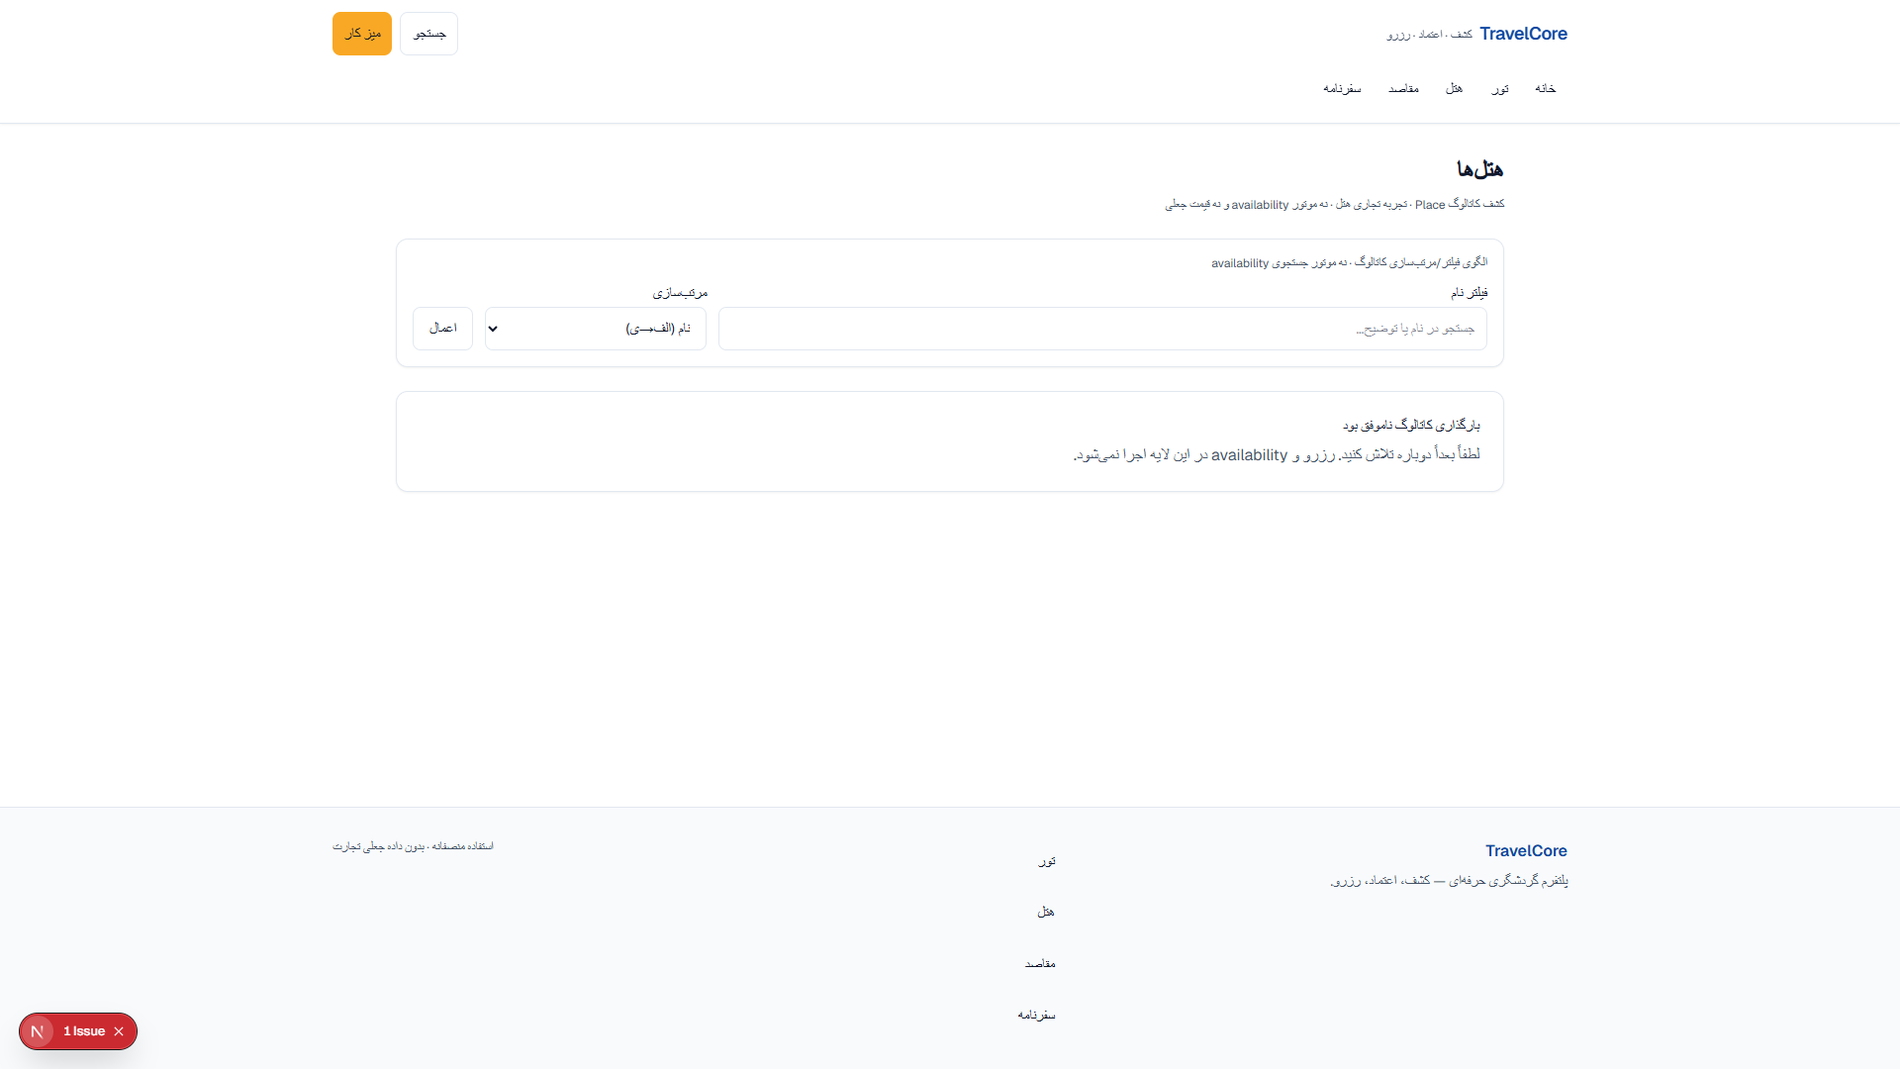
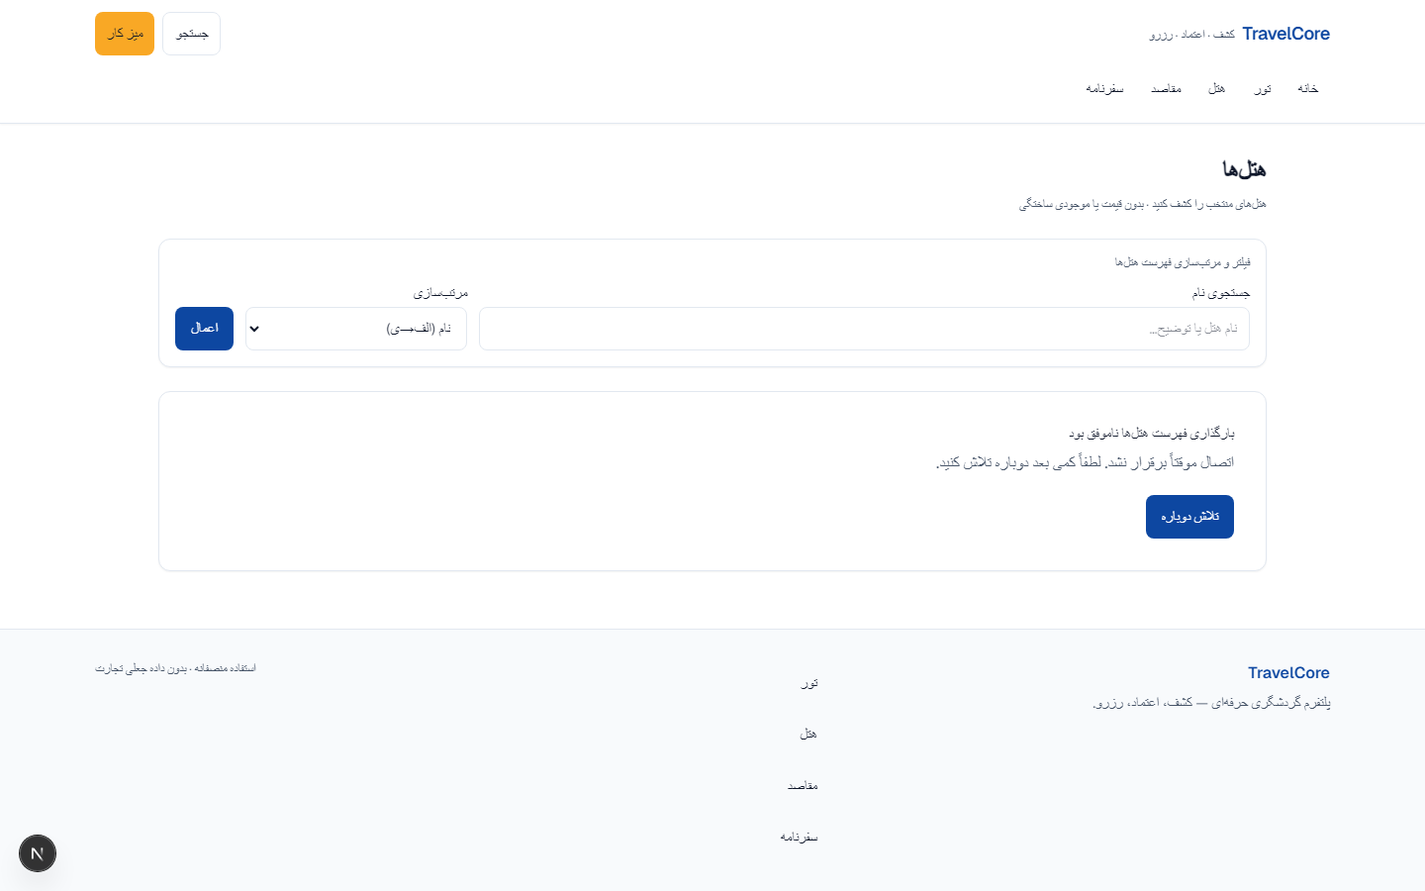
feat(ui): polish P30-T006 hotel commerce after visual review

diff --git a/src/frontend/web/src/features/hotel-discovery/hotel-discovery-view.tsx b/src/frontend/web/src/features/hotel-discovery/hotel-discovery-view.tsx
@@ -29,35 +29,36 @@ export function HotelDiscoveryView({
   const copy =
     locale === "fa"
       ? {
-          blurb:
-            "کشف کاتالوگ Place · تجربه تجاری هتل · نه موتور availability و نه قیمت جعلی",
+          blurb: "هتلهای منتخب را کشف کنید · بدون قیمت یا موجودی ساختگی",
           emptyTitle: "هتلی برای نمایش نیست",
           emptyBody:
-            "برای این locale هتل فعالی با slug نیست، یا فیلتر نتیجهای ندارد. قیمت/موجودی جعلی نشان نمیدهیم.",
-          errorTitle: "بارگذاری کاتالوگ ناموفق بود",
-          errorBody: "لطفاً بعداً دوباره تلاش کنید. رزرو و availability در این لایه اجرا نمیشود.",
+            "فعلاً هتلی با این فیلتر پیدا نشد. بهمحض انتشار کاتالوگ، اینجا نمایش داده میشود.",
+          errorTitle: "بارگذاری فهرست هتلها ناموفق بود",
+          errorBody:
+            "اتصال موقتاً برقرار نشد. لطفاً کمی بعد دوباره تلاش کنید.",
+          retry: "تلاش دوباره",
           count: (n: number) => `${n} هتل`,
         }
       : locale === "ar"
         ? {
-            blurb:
-              "اكتشاف كتالوج Place · تجربة فنادق تجارية · دون محرك توفر أو أسعار وهمية",
+            blurb: "اكتشف الفنادق المختارة · دون أسعار أو توفر وهمي",
             emptyTitle: "لا فنادق للعرض",
             emptyBody:
-              "لا فنادق نشطة لهذا الإعداد المحلي، أو لا نتائج للتصفية. لا نعرض أسعاراً/توفراً وهمياً.",
-            errorTitle: "تعذر تحميل الكتالوج",
-            errorBody: "حاول لاحقاً. الحجز والتوفر ليسا في هذه الطبقة.",
+              "لا نتائج لهذا التصفية حالياً. ستظهر الفنادق عند توفر الكتالوج.",
+            errorTitle: "تعذر تحميل قائمة الفنادق",
+            errorBody: "الاتصال غير متاح مؤقتاً. حاول مرة أخرى بعد قليل.",
+            retry: "إعادة المحاولة",
             count: (n: number) => `${n} فندق`,
           }
         : {
-            blurb:
-              "Place catalog discovery · hotel commerce experience · not availability search · no invented prices",
+            blurb: "Discover selected hotels · no invented prices or availability",
             emptyTitle: "No hotels to show",
             emptyBody:
-              "No active hotels with slug for this locale, or the filter matched nothing. We do not invent prices or availability.",
-            errorTitle: "Catalog failed to load",
+              "Nothing matched this filter yet. Hotels appear here when the catalog is published.",
+            errorTitle: "Couldn’t load hotels",
             errorBody:
-              "Please try again later. Booking and availability are not handled on this layer.",
+              "The connection failed temporarily. Please try again in a moment.",
+            retry: "Try again",
             count: (n: number) => `${n} hotels`,
           };
 
@@ -77,7 +78,7 @@ export function HotelDiscoveryView({
           {loadError ? (
             <div
               role="alert"
-              className="rounded-xl border border-border bg-surface p-6 shadow-sm"
+              className="rounded-xl border border-border bg-surface p-6 shadow-sm sm:p-8"
             >
               <Text as="h2" role="label">
                 {copy.errorTitle}
@@ -85,6 +86,12 @@ export function HotelDiscoveryView({
               <Text role="muted" className="mt-2">
                 {copy.errorBody}
               </Text>
+              <a
+                href={`/${locale}/hotels`}
+                className="mt-5 inline-flex min-h-touch items-center justify-center rounded-md bg-primary px-4 text-sm font-medium text-primary-foreground hover:opacity-95"
+              >
+                {copy.retry}
+              </a>
             </div>
           ) : filtered.length === 0 ? (
             <div className="rounded-xl border border-dashed border-border bg-surface/60 p-8 text-center">
@@ -98,7 +105,7 @@ export function HotelDiscoveryView({
                 {[0, 1, 2].map((i) => (
                   <div
                     key={i}
-                    className="aspect-[4/3] rounded-xl border border-border bg-muted/40"
+                    className="aspect-[4/3] rounded-xl bg-gradient-to-br from-primary/25 via-muted to-accent/30"
                     aria-hidden
                   />
                 ))}

diff --git a/src/frontend/web/src/features/hotel-detail/hotel-detail-view.tsx b/src/frontend/web/src/features/hotel-detail/hotel-detail-view.tsx
@@ -34,13 +34,13 @@ export function HotelDetailView({
           destination: "مقصد",
           reviews: "نظرات و داستانها",
           reviewsEmpty:
-            "بخش نظرات آماده است. تا UGC واقعی، امتیاز یا نظر جعلی نشان داده نمیشود.",
+            "هنوز نظری ثبت نشده است. امتیاز یا نظر ساختگی نشان داده نمیشود.",
           similar: "هتلهای مشابه",
-          similarEmpty: "هتل مشابه دیگری در کاتالوگ این locale نیست.",
-          cta: "ادامه به رزرو (ورود آینده)",
-          ctaNote: "CTA نمایشی برای مسیر رزرو آینده · نه پرداخت و نه موجودی زنده",
+          similarEmpty: "فعلاً هتل مشابه دیگری در فهرست نیست.",
+          cta: "ادامه به رزرو",
+          ctaNote: "ورود به مسیر رزرو · موجودی و پرداخت در مرحله بعد",
           stars: "ستاره",
-          noGallery: "گالری رسانه هنوز برای این هتل منتشر نشده است.",
+          noGallery: "گالری تصاویر هنوز برای این هتل منتشر نشده است.",
         }
       : locale === "ar"
         ? {
@@ -51,13 +51,13 @@ export function HotelDetailView({
             destination: "الوجهة",
             reviews: "المراجعات والقصص",
             reviewsEmpty:
-              "قسم المراجعات جاهز. لا نعرض تقييمات أو تعليقات وهمية.",
+              "لا مراجعات بعد. لا نعرض تقييمات أو تعليقات وهمية.",
             similar: "فنادق مشابهة",
-            similarEmpty: "لا فنادق مشابهة في هذا الكتالوج.",
-            cta: "متابعة الحجز (دخول مستقبلي)",
-            ctaNote: "زر عرضي لمسار الحجز المستقبلي · ليس دفعاً أو توفراً حياً",
+            similarEmpty: "لا فنادق مشابهة في القائمة حالياً.",
+            cta: "متابعة الحجز",
+            ctaNote: "الدخول إلى مسار الحجز · التوفر والدفع لاحقاً",
             stars: "نجوم",
-            noGallery: "معرض الوسائط غير منشور بعد لهذا الفندق.",
+            noGallery: "معرض الصور غير منشور بعد لهذا الفندق.",
           }
         : {
             summary: "Hotel summary",
@@ -67,14 +67,13 @@ export function HotelDetailView({
             destination: "Destination",
             reviews: "Reviews & stories",
             reviewsEmpty:
-              "Reviews section is ready. We do not invent ratings or fake reviews.",
+              "No reviews yet. We do not invent ratings or fake comments.",
             similar: "Similar hotels",
-            similarEmpty: "No other hotels in this locale catalog yet.",
-            cta: "Continue to booking (future entry)",
-            ctaNote:
-              "Presentation CTA for future booking entry · not payment or live availability",
+            similarEmpty: "No other hotels in this list yet.",
+            cta: "Continue to booking",
+            ctaNote: "Enter the booking path · availability and payment come later",
             stars: "stars",
-            noGallery: "Media gallery is not published for this hotel yet.",
+            noGallery: "Photo gallery is not published for this hotel yet.",
           };
 
   const galleryItems =
@@ -267,7 +266,7 @@ export function HotelDetailView({
           <Text role="caption">{copy.ctaNote}</Text>
           <Link
             href={bookHref}
-            className="mt-2 inline-flex min-h-touch w-full items-center justify-center rounded-md border border-border bg-surface px-4 py-2 text-sm font-medium underline-offset-2 hover:underline"
+            className="mt-2 inline-flex min-h-touch w-full items-center justify-center rounded-md bg-accent px-4 py-2 text-sm font-semibold text-accent-foreground hover:opacity-95"
           >
             {copy.cta}
           </Link>

diff --git a/src/frontend/web/src/features/hotel-discovery/hotel-card.tsx b/src/frontend/web/src/features/hotel-discovery/hotel-card.tsx
@@ -19,33 +19,36 @@ export function HotelCard({
       ? {
           cta: "مشاهده هتل",
           stars: "ستاره",
-          facilities: "امکانات در صفحه جزئیات",
+          facilities: "جزئیات و امکانات در صفحه هتل",
           imageAlt: "تصویر هتل",
+          noStars: "ستاره ثبتنشده",
         }
       : locale === "ar"
         ? {
             cta: "عرض الفندق",
             stars: "نجوم",
-            facilities: "المرافق في صفحة التفاصيل",
+            facilities: "التفاصيل والمرافق في صفحة الفندق",
             imageAlt: "صورة الفندق",
+            noStars: "بدون تصنيف نجوم",
           }
         : {
             cta: "View hotel",
             stars: "stars",
-            facilities: "Facilities on detail page",
+            facilities: "Details and facilities on the hotel page",
             imageAlt: "Hotel image",
+            noStars: "Star rating pending",
           };
 
   const href = `/${locale}/hotels/${encodeURIComponent(hotel.slug)}`;
 
   return (
-    <article className="flex h-full flex-col overflow-hidden rounded-xl border border-border bg-surface shadow-sm">
+    <article className="flex h-full flex-col overflow-hidden rounded-xl border border-border bg-surface shadow-sm transition-shadow hover:shadow-md">
       <div
-        className="aspect-[4/3] w-full bg-gradient-to-br from-muted to-muted-foreground/20"
+        className="aspect-[4/3] w-full bg-gradient-to-br from-primary/80 via-primary/40 to-accent/70"
         aria-hidden
       >
         <div className="flex h-full items-end p-3">
-          <Text role="caption" className="rounded-md bg-background/80 px-2 py-1">
+          <Text role="caption" className="rounded-md bg-background/85 px-2 py-1 text-foreground">
             {copy.imageAlt}
           </Text>
         </div>
@@ -70,13 +73,11 @@ export function HotelCard({
           <Text role="caption">
             {hotel.starRating != null
               ? `${hotel.starRating} ${copy.stars}`
-              : locale === "fa"
-                ? "کاتالوگ Place"
-                : "Place catalog"}
+              : copy.noStars}
           </Text>
           <Link
             href={href}
-            className="min-h-touch inline-flex items-center rounded-md border border-border bg-background px-3 py-2 text-sm underline-offset-2 hover:underline"
+            className="min-h-touch inline-flex items-center rounded-md bg-primary px-3 py-2 text-sm font-medium text-primary-foreground hover:opacity-95"
           >
             {copy.cta}
           </Link>

diff --git a/src/frontend/web/src/app/[locale]/hotels/[slug]/page.tsx b/src/frontend/web/src/app/[locale]/hotels/[slug]/page.tsx
@@ -81,7 +81,46 @@ export default async function HotelDetailPage({ params }: PageProps) {
 
   const loaded = await loadPlaceDetailPage(locale, slug);
   if (!isApiOk(loaded) || loaded.data.kind !== "Hotel") {
-    notFound();
+    const missing =
+      locale === "fa"
+        ? {
+            title: "هتل پیدا نشد",
+            body: "این هتل در فهرست منتشرشده نیست یا موقتاً در دسترس نیست. قیمت یا موجودی ساختگی نشان داده نمیشود.",
+            back: "بازگشت به فهرست هتلها",
+          }
+        : locale === "ar"
+          ? {
+              title: "الفندق غير موجود",
+              body: "هذا الفندق غير منشور أو غير متاح مؤقتاً. لا نعرض أسعاراً أو توفراً وهمياً.",
+              back: "العودة إلى قائمة الفنادق",
+            }
+          : {
+              title: "Hotel not found",
+              body: "This hotel is not in the published list or is temporarily unavailable. We do not invent prices or availability.",
+              back: "Back to hotels",
+            };
+
+    return (
+      <PublicShell
+        header={<PublicHeader locale={locale} />}
+        footer={<PublicFooter locale={locale} />}
+      >
+        <div className="py-10 sm:py-14">
+          <div className="mx-auto max-w-xl rounded-xl border border-border bg-surface p-6 shadow-sm sm:p-8">
+            <h1 className="text-2xl font-semibold tracking-tight text-foreground">
+              {missing.title}
+            </h1>
+            <p className="mt-2 text-sm text-muted-foreground">{missing.body}</p>
+            <a
+              href={`/${locale}/hotels`}
+              className="mt-6 inline-flex min-h-touch items-center justify-center rounded-md bg-primary px-4 text-sm font-medium text-primary-foreground hover:opacity-95"
+            >
+              {missing.back}
+            </a>
+          </div>
+        </div>
+      </PublicShell>
+    );
   }
 
   const vm = loaded.data;

diff --git a/src/frontend/web/src/features/hotel-discovery/hotel-listing-criteria.ts b/src/frontend/web/src/features/hotel-discovery/hotel-listing-criteria.ts
@@ -60,39 +60,39 @@ export function applyHotelListingCriteria(
 export function hotelListingCopy(locale: AppLocale) {
   if (locale === "fa") {
     return {
-      filterLabel: "فیلتر نام",
-      filterPlaceholder: "جستجو در نام یا توضیح…",
+      filterLabel: "جستجوی نام",
+      filterPlaceholder: "نام هتل یا توضیح…",
       sortLabel: "مرتبسازی",
       apply: "اعمال",
       sortNameAsc: "نام (الف→ی)",
       sortNameDesc: "نام (ی→الف)",
       sortStarsDesc: "ستاره (بیشتر)",
       sortStarsAsc: "ستاره (کمتر)",
-      patternNote: "الگوی فیلتر/مرتبسازی کاتالوگ · نه موتور جستجوی availability",
+      patternNote: "فیلتر و مرتبسازی فهرست هتلها",
     };
   }
   if (locale === "ar") {
     return {
-      filterLabel: "تصفية الاسم",
-      filterPlaceholder: "ابحث في الاسم أو الوصف…",
+      filterLabel: "بحث بالاسم",
+      filterPlaceholder: "اسم الفندق أو الوصف…",
       sortLabel: "الترتيب",
       apply: "تطبيق",
       sortNameAsc: "الاسم (أ→ي)",
       sortNameDesc: "الاسم (ي→أ)",
       sortStarsDesc: "النجوم (الأعلى)",
       sortStarsAsc: "النجوم (الأقل)",
-      patternNote: "نمط التصفية/الترتيب للكتالوج · ليس محرك توفر",
+      patternNote: "تصفية وترتيب قائمة الفنادق",
     };
   }
   return {
-    filterLabel: "Name filter",
-    filterPlaceholder: "Search name or description…",
+    filterLabel: "Search by name",
+    filterPlaceholder: "Hotel name or description…",
     sortLabel: "Sort",
     apply: "Apply",
     sortNameAsc: "Name (A→Z)",
     sortNameDesc: "Name (Z→A)",
     sortStarsDesc: "Stars (high)",
     sortStarsAsc: "Stars (low)",
-    patternNote: "Catalog filter/sort pattern · not an availability search engine",
+    patternNote: "Filter and sort the hotel list",
   };
 }

diff --git a/src/frontend/web/src/features/hotel-discovery/hotel-listing-toolbar.tsx b/src/frontend/web/src/features/hotel-discovery/hotel-listing-toolbar.tsx
@@ -51,7 +51,7 @@ export function HotelListingToolbar({
         </label>
         <button
           type="submit"
-          className="min-h-touch rounded-md border border-border bg-background px-4 py-2 text-sm font-medium underline-offset-2 hover:underline"
+          className="min-h-touch rounded-md bg-primary px-4 py-2 text-sm font-medium text-primary-foreground hover:opacity-95"
         >
           {copy.apply}
         </button>

diff --git a/docs/product-experience/evidence/P30-T006/VISUAL-REVIEW.md b/docs/product-experience/evidence/P30-T006/VISUAL-REVIEW.md
@@ -2,34 +2,53 @@
 
 | Field | Value |
 |-------|--------|
-| Task-ID | `TC-P30-T006` |
+| Task-ID | `TC-P30-T006` (+ review/fix `TC-P30-T006-VISUAL-ARCHITECT-REVIEW-FIX-001`) |
 | Surfaces | `/[locale]/hotels` listing · `/[locale]/hotels/[slug]` detail |
-| Evidence | `fa-hotels-desktop.png` · `fa-hotels-mobile.png` |
+| Evidence | `fa-hotels-desktop.png` · `fa-hotels-mobile.png` · `fa-hotel-detail-notfound-desktop.png` · `fa-hotel-detail-notfound-mobile.png` |
 
-## What was implemented (experience only)
+## Previous T006 completeness
 
-### Listing
-- PublicShell with PublicHeader / PublicFooter
-- Filter pattern (name/description query) + sort pattern
-- Hotel card grid (image area placeholder, name, location/blurb, CTA)
-- Loading route skeleton
-- Honest **error** and **empty** states (no invented prices/availability)
+Code for listing + detail commerce experience **was present** after `4db35b5`, but visual review found unfinished product polish:
 
-### Detail
-- HotelDetailView: gallery pattern, summary, facilities, location, reviews pattern (UGC or honest empty), similar hotels pattern, sticky future-booking CTA
-- PublicShell chrome aligned with Home commerce shell
+| Issue | Assessment |
+|-------|------------|
+| Evidence only captured API-down listing | Incomplete for Architect visual ACCEPT of cards/detail |
+| User-facing copy too engineering-oriented (Place / availability jargon) | Fixed in this review task |
+| Primary CTAs weak vs North Star (Apply / View hotel / booking bar) | Fixed — primary / accent |
+| Missing hotel detail fell to bare 404 without PublicShell | Fixed — shell + honest missing state |
+| Live catalog / gallery / card grid with Place API | **Still blocked** in this local session (API unavailable) |
 
-## Visual capture notes
+## Visual self-review (this run)
 
-Desktop + mobile captures of `/fa/hotels` were taken with backend Place API **unavailable** in the local session.
+### North Star direction
+- PublicShell chrome (logo, nav, accent Workspace, primary actions) aligns with commercial marketplace direction.
+- Hotel listing uses content-width container, card/filter surfaces, primary Apply / retry CTAs.
+- Not pixel-clone of North Star hotel detail (live gallery/map/price widget need real Place data).
 
-Observed: listing UI + filter/sort + **error state** rendered correctly (honest failure, no fake catalog).
+### Product feeling
+- Improved: clearer guest-facing Persian copy; stronger CTAs; soft brand gradients on card placeholders.
+- Still limited: listing shows **honest load-failure** because Place public API is down — not a fake success catalog.
 
-Detail screenshots with live Place data were **not** captured in this run because the public hotels API did not respond. Detail UI is implemented in code and typechecks.
+### Layout
+- Desktop listing: header + filter toolbar + error panel + footer — acceptable commerce shell.
+- Mobile listing: stacked filter controls + error + footer — acceptable; primary nav behind Menu (shell pattern).
+- Missing-hotel detail: now rendered inside PublicShell (re-captured after fix).
 
-## Do not invent
+### Responsive
+- Desktop 1440 and mobile 390 captures refreshed after polish.
 
-No fake prices, availability, reviews, or ratings were introduced.
+## Known limitations
+
+1. Place API unavailable locally → no live hotel cards / gallery / facilities evidence in this run.
+2. No invented prices, availability, ratings, or demo hotels.
+3. Sticky booking CTA on success detail is presentation entry only (not payment).
+4. Next.js dev indicator may appear in local screenshots (not product UI).
+
+## Acceptance risks
+
+1. Architect may **REWORK** until live Place-backed listing + detail screenshots exist.
+2. Card/detail commercial density vs North Star (photo gallery, map, price panel) cannot be fully judged without API.
+3. PROJECT-STATE / ROADMAP still lag behind T006 (docs SoT update not in this task scope).
 
 ## Architect gate
 
